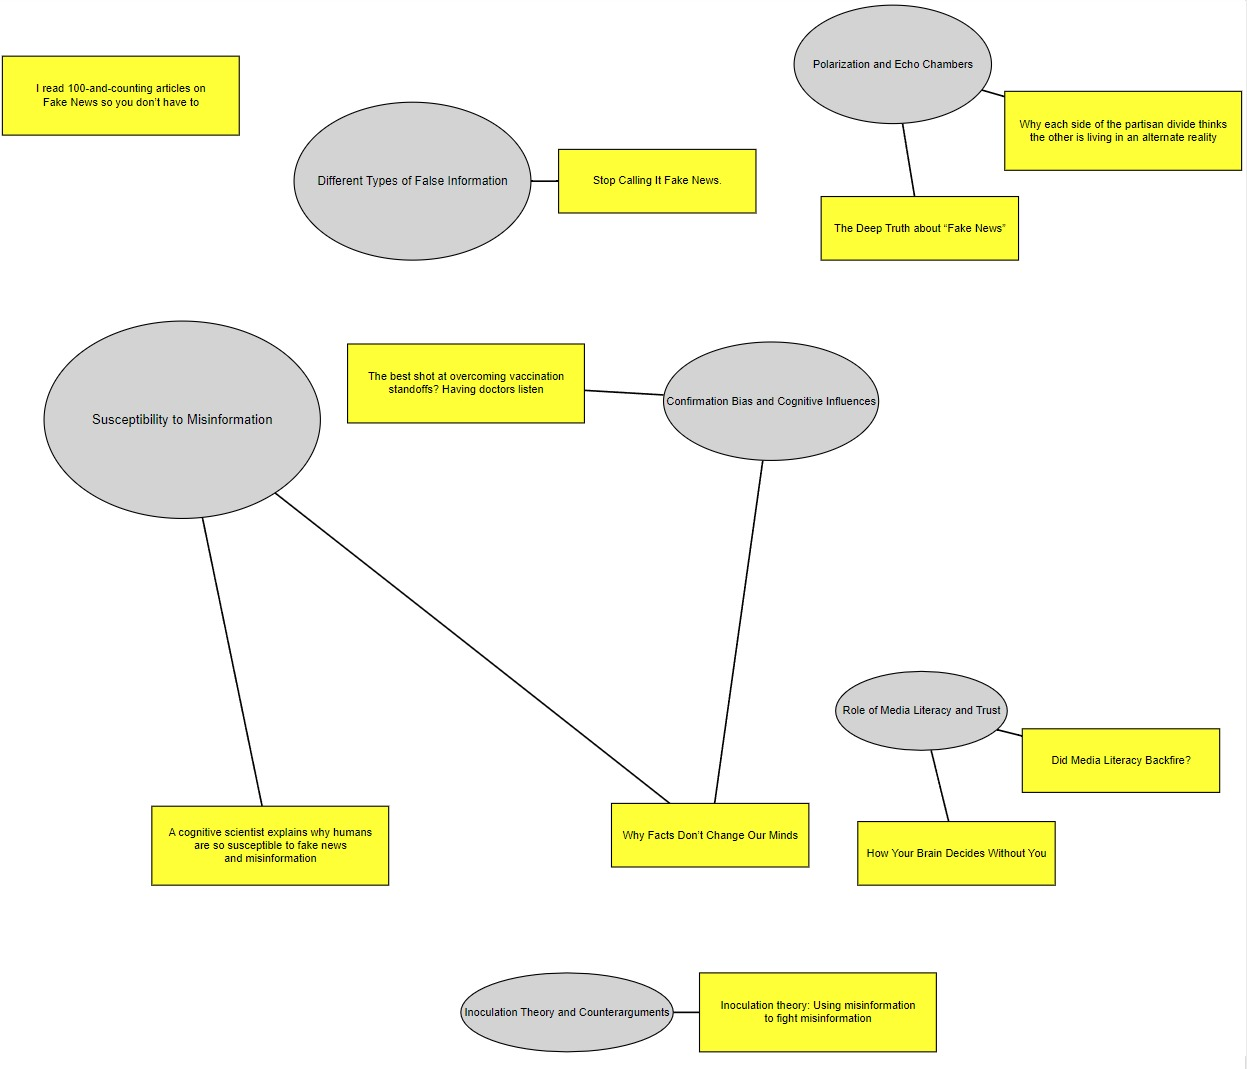
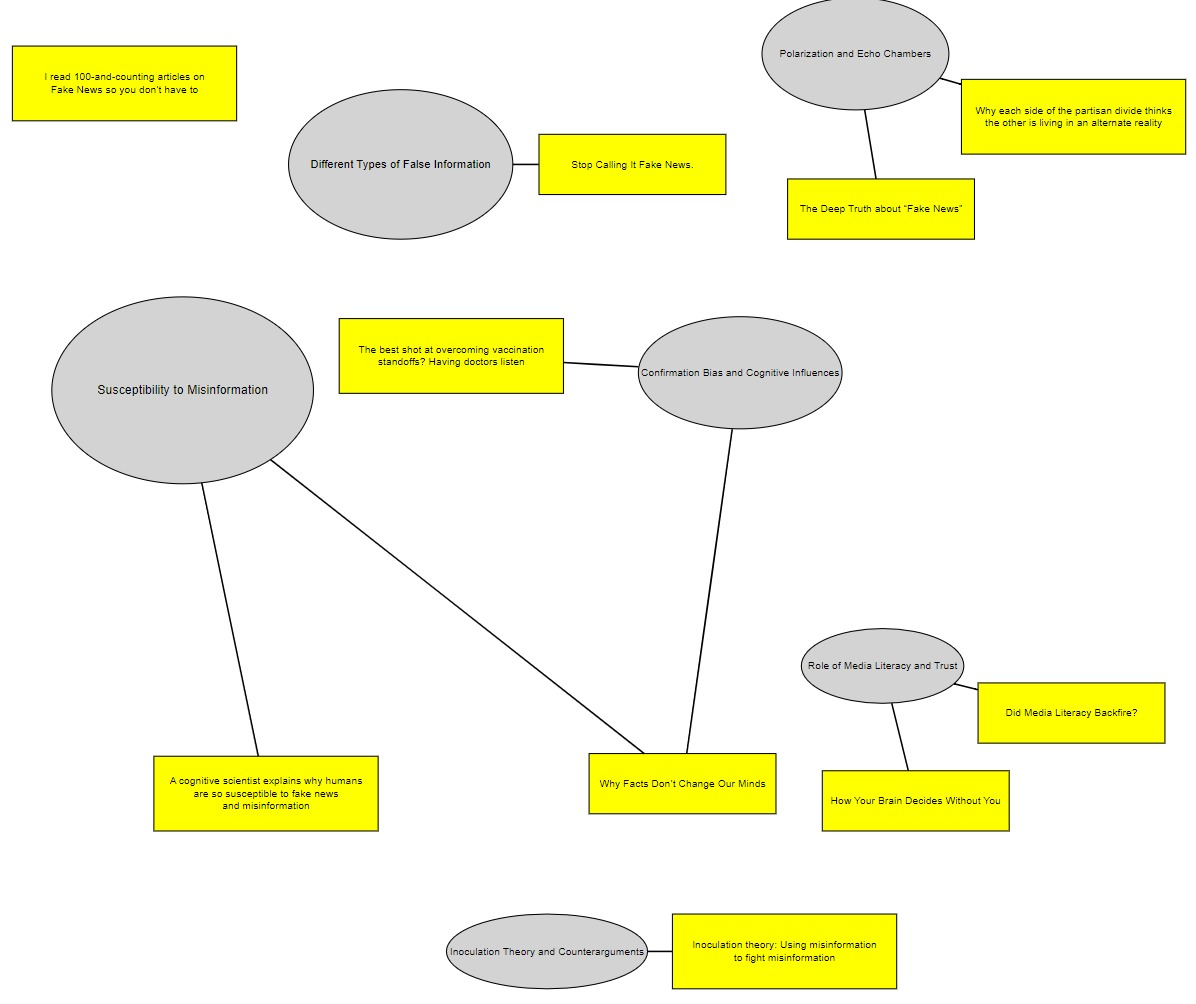
exp 4 with a svg

diff --git a/analysis/experiments 2 3 4 _ analysis.md b/analysis/experiments 2 3 4 _ analysis.md
@@ -78,7 +78,7 @@ So I turned to a new mapping tool ([Graphviz](https://graphviz.org/Gallery/neato
 [[test neato visualisation]], and a new prompt ([[prompt 2c - themes and resources visualised]]) to take advantage of it.   
 
 #### Prompt2c - version 1: learning graphviz
-In [[c-3_allnotes-response-p-2c-a]] I started with **"version 1" of Prompt2c**, trying to get a useful visualisation of the same content ([[c-3_allnotes]]) using Graphviz. It wasn't great to say the least ([[c-3_allnotes-response-p-2c-1.png]]), so the conversation continued as I tried tweaking node size, shape and colour; introduced line breaks into the texts so they'd fit inside the nodes; and tried to make the whole thing more compact.
+In [[c-3_allnotes-response-p-2c-a]] I started with **"version 1" of Prompt2c**, trying to get a useful visualisation of the same content ([[c-3_allnotes]]) using Graphviz. The result wasn't great to say the least ([[c-3_allnotes-response-p-2c-1.png]]), so the conversation continued as I tried tweaking node size, shape and colour; introduced line breaks into the texts so they'd fit inside the nodes; and tried to make the whole thing more compact.
 
 Near the end I made the most progress by simply telling ChatGPT what I wanted, but the struggles beforehand taught me a lot about Graphviz. It will be interesting to see whether in the future I'll simply default to "ask ChatGPT" *without* all that the struggle... and learning.
 
@@ -87,6 +87,26 @@ Once I had something looking OK ([[c-3_allnotes-response-p-2c-12.png]]) I asked 
 #### Prompt2c - version 2
 I incorporated everything I learnt from  [[c-3_allnotes-response-p-2c-a]] into **"version 2"** of Prompt2c, which I tested in [[c-3_allnotes-response-p-2c-b]], generating for the first time something that looks somewhat useful:
 
+![[c-3_allnotes-response-p-2c-b.svg]]
+
+
 ![[c-3_allnotes-response-p-2c-b.jpeg]]
 
-At last something that I can actually look at and assess: is it accurate, or provocative, or both? Most importantly, is it useful?
+
+At last something that I can actually look at and assess: is it accurate, or provocative, or both? Most importantly, is it useful? Some observations:
+
+* It correctly placed the "100 articles on Fake news" article off to the side, disconnected, as my notes were almost empty (it is my own post). 
+* All but one of the other articles was connected to only one theme, while each theme is connected to 1 or 2 articles 
+* I find the figure constantly forcing me to ask questions like *why is article X not connected to Theme Y, when article Z is*? (eg, Why is *How Your Brain Decides Without You* ***not*** linked to *Confirmation Bias and Cognitive Influences?*) 
+* Of course these are based on just the article titles, while ChatGPT's underlying analysis is based only on my notes, so even without hallucinations the question shouldnt be "*is this correct*" but rather "*what does that make me think of?*" 
+
+next steps
+
+* prompt 2c v3
+	* include tags in resource nodes
+	* continue conversation based on the concept map artefact
+	* visit resource URLs and recalculate
+		* combine original resource content with my notes
+		* give my notes 4x weight
+		* generate your own tags, compare with mine, suggest missing 
+		* check token limit
